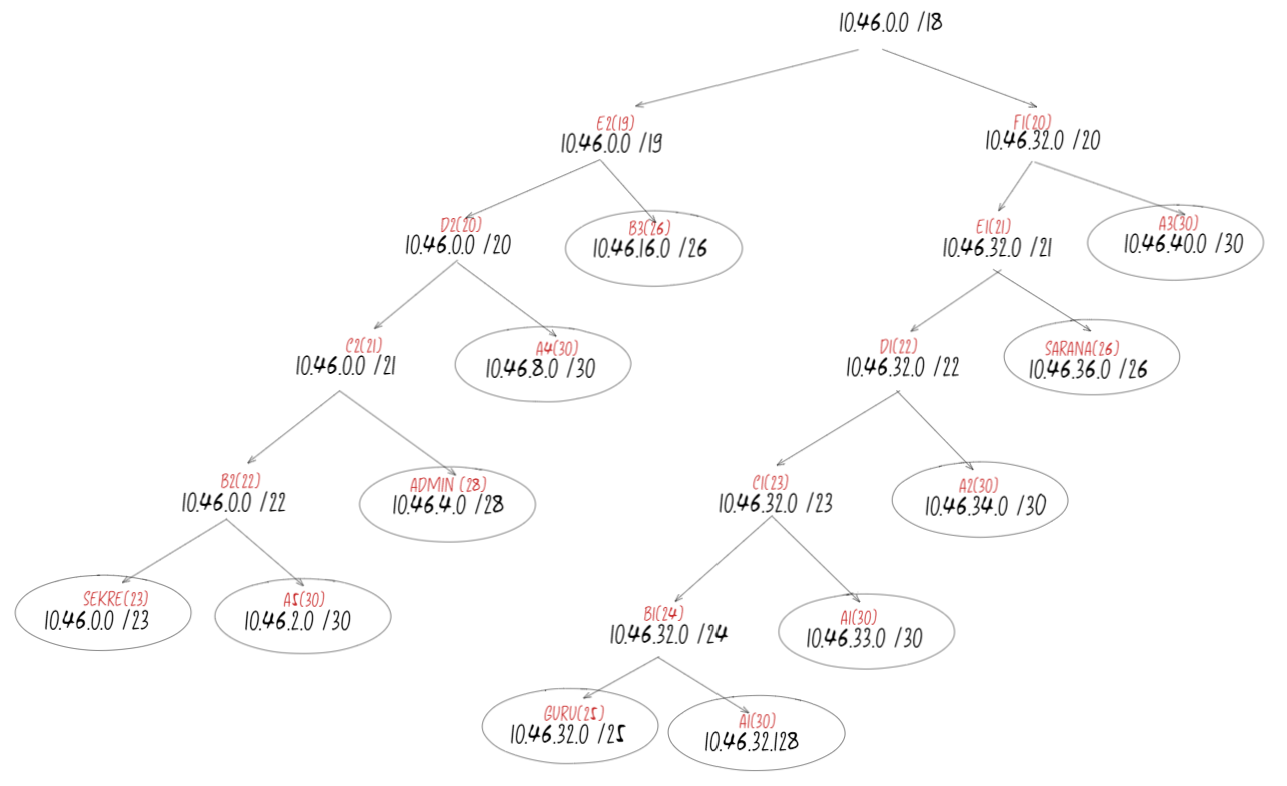
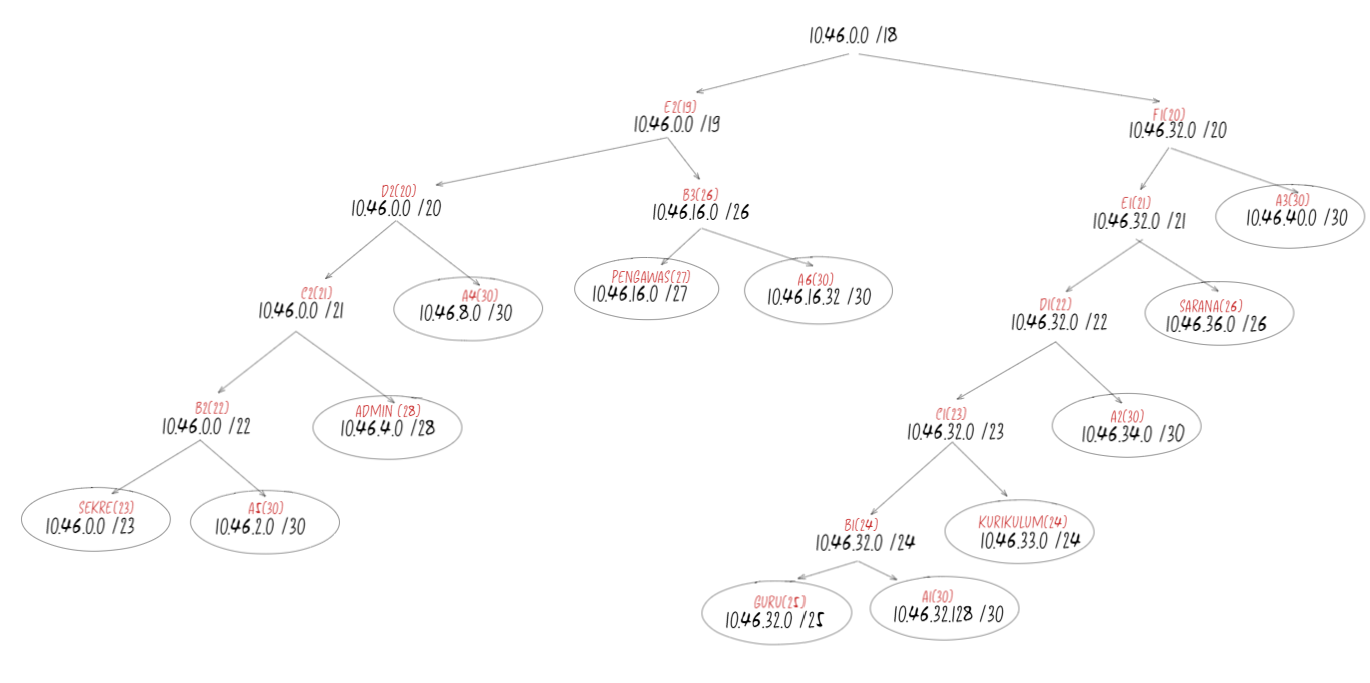
rev gambar

diff --git a/README.md b/README.md
@@ -49,7 +49,7 @@
 
 ## CIDR
 
-![](assets/cidr%20pohon.png)
+![](assets/cidr%20sub.png)
 
 ![](assets/cidr.png)
 
